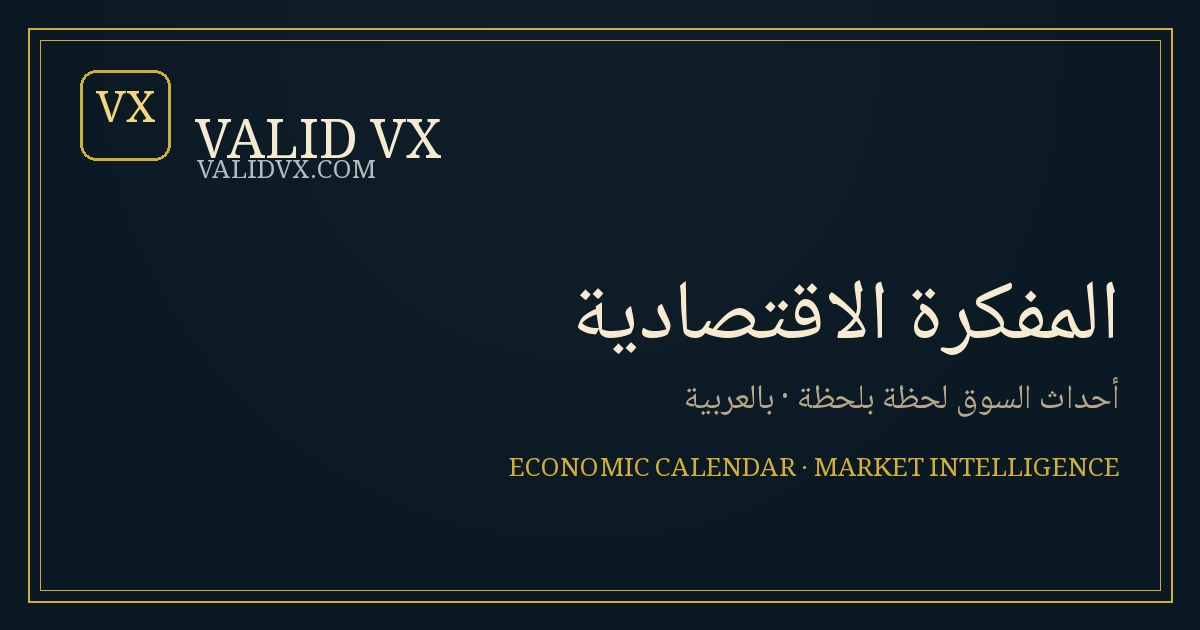
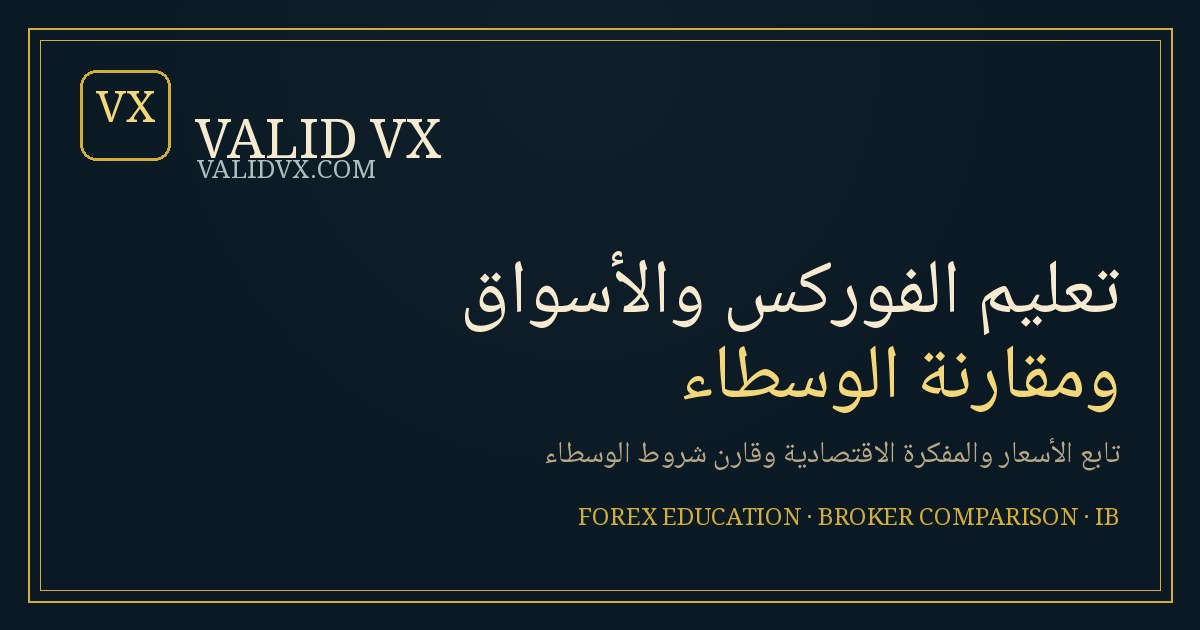
fix: OG share image reflects IB/broker-comparison identity

Changed region(s): [[0.37, 0.3921, 0.9558, 0.6635], [0.4008, 0.6937, 0.9558, 0.754], [0.4625, 0.7841, 0.9558, 0.8444]]

diff --git a/index.html b/index.html
@@ -24,7 +24,7 @@
 <meta property="og:image" content="https://www.validvx.com/assets/og-image.jpg">
 <meta property="og:image:width" content="1200">
 <meta property="og:image:height" content="630">
-<meta property="og:image:alt" content="VALID VX — المفكرة الاقتصادية">
+<meta property="og:image:alt" content="VALID VX — تعليم الفوركس والأسواق ومقارنة الوسطاء">
 <meta name="twitter:image" content="https://www.validvx.com/assets/og-image.jpg">
 <meta name="twitter:card" content="summary">
 <meta name="twitter:title" content="VALID VX | تعليم الفوركس والأسواق ومقارنة الوسطاء">
